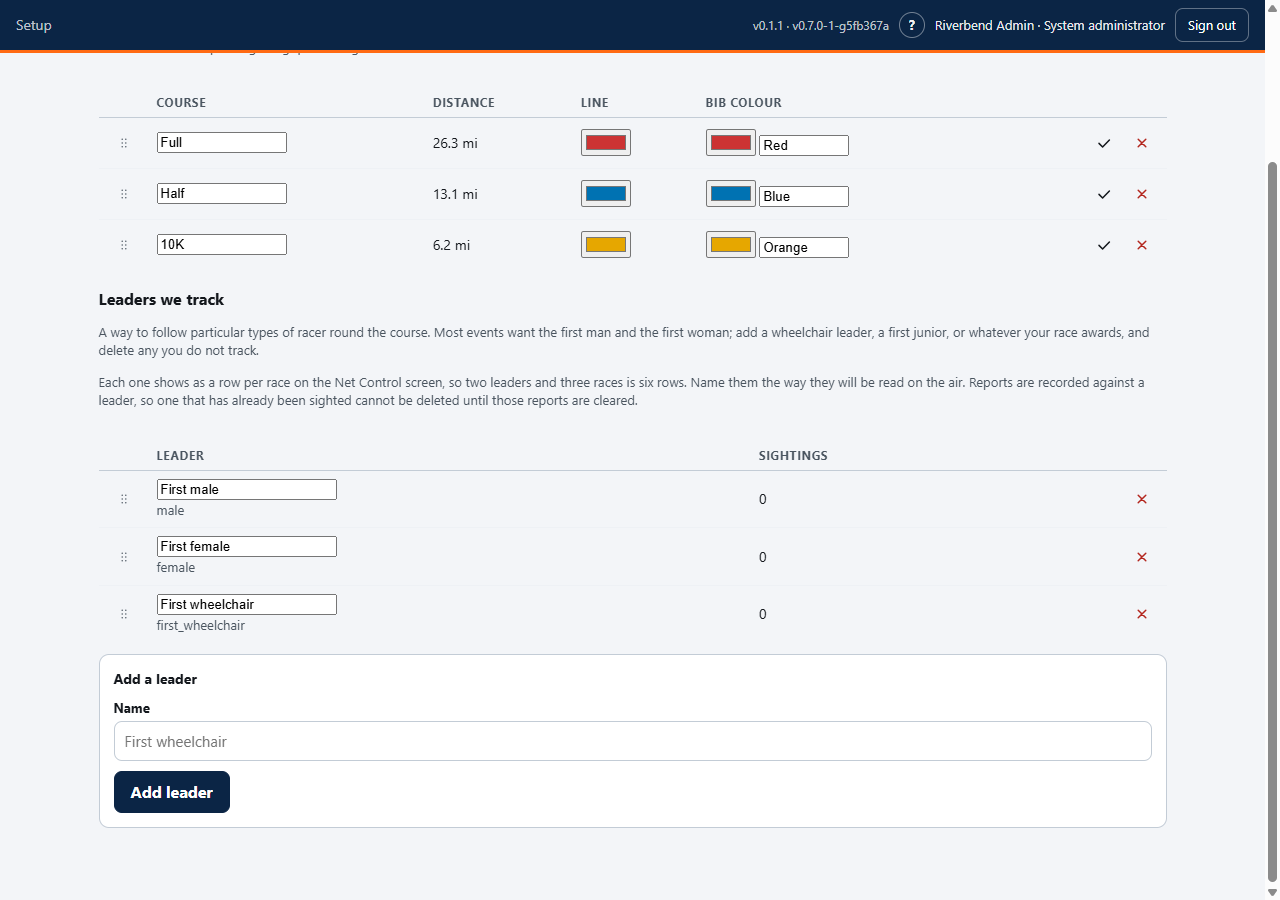
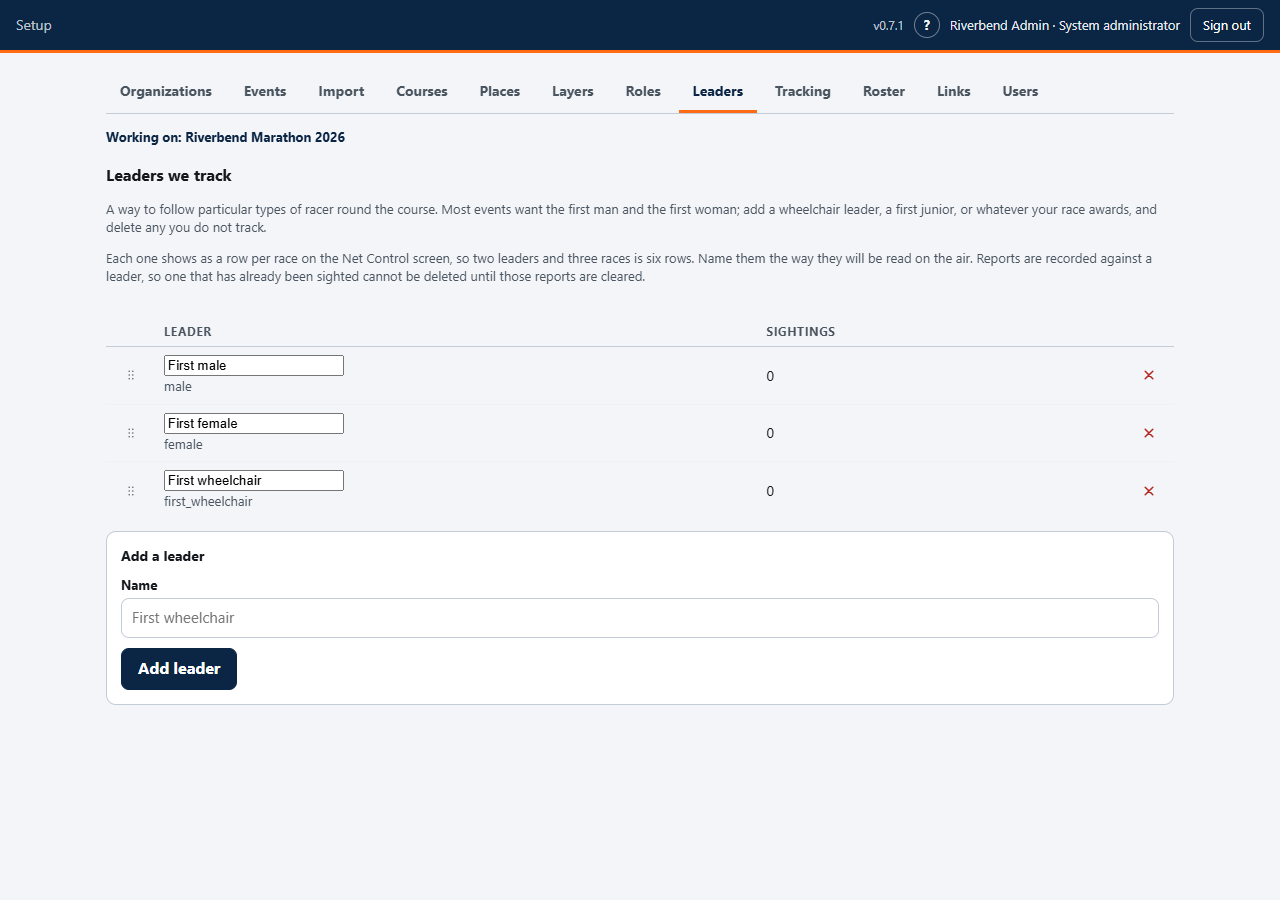
refactor: Leaders is its own setup tab (#106)
Layers and Roles are each a tab, and Leaders is a taxonomy of exactly the
same kind, so filing it as a second heading under Courses made it the odd
one out of three.

The reason given for putting it there does not survive checking: "a
leader is per race" is false. `lead_division` is event-scoped and every
leader is tracked in every race - what is per race is the row-per-race
grid on the NCS panel, and that is a consequence of the data rather than
a statement about where it belongs.

So: a tab between Roles and Tracking, its own panel with the same
data-needs-event gate as its siblings, and one line in refreshTab. The ?
maps to "Making it yours" alongside the other two taxonomies, and the
guide section moved out of setup.md into setup-ideas.md to sit beside
"Place layers: this list is yours" and "Station roles: also yours".

Screenshots: setup-courses.png back to the courses table alone,
setup-leaders.png re-shot as the tab. Two stale "Setup -> Courses ->
Leaders we track" references fixed, in the Net Control guide and the
runbook.

Clicked through: the tab loads standalone after a reload, the Courses
panel no longer owns the table, add and delete work from the new tab, and
the ? resolves to setup-ideas.

538 tests.

Claude-Session: https://claude.ai/code/session_01Rn3f7pn9v881Ek6nEawvSe

diff --git a/src/courseops/static/setup.html b/src/courseops/static/setup.html
@@ -71,6 +71,7 @@
     <button class="tab" data-tab="stations" type="button">Places</button>
     <button class="tab" data-tab="layers" type="button">Layers</button>
     <button class="tab" data-tab="roles" type="button">Roles</button>
+    <button class="tab" data-tab="leaders" type="button">Leaders</button>
     <button class="tab" data-tab="tracking" type="button">Tracking</button>
     <button class="tab" data-tab="roster" type="button">Roster</button>
     <button class="tab" data-tab="links" type="button">Links</button>
@@ -197,38 +198,6 @@
     </p>
     <p class="row"><span id="course-order-note" class="muted"></span></p>
     <div id="course-table"></div>
-
-    <!-- Leaders sit under Courses because a leader is per race: every leader
-         here is tracked in every race above, and the NCS panel shows one row
-         for each pairing. That is also the cost of adding one, which is why
-         the list has to be as easy to shorten as to lengthen. -->
-    <h2>Leaders we track</h2>
-    <p class="muted">
-      A way to follow particular types of racer round the course. Most events
-      want the first man and the first woman; add a wheelchair leader, a first
-      junior, or whatever your race awards, and delete any you do not track.
-    </p>
-    <p class="muted">
-      Each one shows as a row per race on the Net Control screen, so two
-      leaders and three races is six rows. Name them the way they will be read
-      on the air. Reports are recorded against a leader, so one that has
-      already been sighted cannot be deleted until those reports are cleared.
-    </p>
-    <p class="row"><span id="leader-order-note" class="muted"></span></p>
-    <div id="leader-table"></div>
-    <div class="row">
-      <button id="leader-save-all" class="primary" type="button" hidden></button>
-      <span id="leader-dirty" class="muted"></span>
-    </div>
-
-    <form id="leader-form" class="card">
-      <h3>Add a leader</h3>
-      <label class="field"><span>Name</span>
-        <input id="leader-name" type="text" placeholder="First wheelchair"
-          required></label>
-      <p id="leader-error" class="error" hidden></p>
-      <button class="primary" type="submit">Add leader</button>
-    </form>
   </section>
 
   <section class="panel" data-panel="stations" data-needs-event hidden>
@@ -334,6 +303,45 @@
         <input id="role-name" type="text" placeholder="Liaison" required></label>
       <p id="role-error" class="error" hidden></p>
       <button class="primary" type="submit">Add role</button>
+    </form>
+  </section>
+
+  <!-- Leaders is a taxonomy of the event, the same as the place layers and the
+       station roles, so it gets the same treatment: its own tab rather than a
+       second heading under Courses. Every leader here is tracked in every
+       race, which is what makes it event-scoped rather than a course setting -
+       the row-per-race grid on the NCS panel is a consequence of that, not a
+       reason to file it under the races. -->
+  <section class="panel" data-panel="leaders" data-needs-event hidden>
+    <p class="needs-event" hidden>Pick an event first — everything on this
+      tab belongs to one event.
+      <button data-goto="events" type="button">Go to Events</button></p>
+    <h2>Leaders we track</h2>
+    <p class="muted">
+      A way to follow particular types of racer round the course. Most events
+      want the first man and the first woman; add a wheelchair leader, a first
+      junior, or whatever your race awards, and delete any you do not track.
+    </p>
+    <p class="muted">
+      Each one shows as a row per race on the Net Control screen, so two
+      leaders and three races is six rows. Name them the way they will be read
+      on the air. Reports are recorded against a leader, so one that has
+      already been sighted cannot be deleted until those reports are cleared.
+    </p>
+    <p class="row"><span id="leader-order-note" class="muted"></span></p>
+    <div id="leader-table"></div>
+    <div class="row">
+      <button id="leader-save-all" class="primary" type="button" hidden></button>
+      <span id="leader-dirty" class="muted"></span>
+    </div>
+
+    <form id="leader-form" class="card">
+      <h3>Add a leader</h3>
+      <label class="field"><span>Name</span>
+        <input id="leader-name" type="text" placeholder="First wheelchair"
+          required></label>
+      <p id="leader-error" class="error" hidden></p>
+      <button class="primary" type="submit">Add leader</button>
     </form>
   </section>
 

diff --git a/src/courseops/static/setup.js b/src/courseops/static/setup.js
@@ -155,6 +155,7 @@ const HELP_FOR_TAB = {
   links: 'setup-people',
   layers: 'setup-ideas',
   roles: 'setup-ideas',
+  leaders: 'setup-ideas',
   tracking: 'setup-race-week',
 };
 
@@ -216,13 +217,12 @@ async function refreshTab(name) {
     // One loader for both: the places table needs the courses for its Races
     // column, and the courses table is small. Rendering into a panel that is
     // not showing costs nothing and keeps the two in step.
-    if (name === 'courses' || name === 'stations') {
-      // The leaders list lives on the Courses tab: it is per race, and the
-      // same endpoint already carries it.
-      if (name === 'courses') loadLayers('leaders');
-      return loadCourses();
-    }
+    if (name === 'courses' || name === 'stations') return loadCourses();
+    // Three taxonomies, one endpoint, one loader - each tab re-renders only
+    // its own table, because reloading a table someone has not touched
+    // discards the edits in progress in it.
     if (name === 'layers' || name === 'roles') return loadLayers();
+    if (name === 'leaders') return loadLayers('leaders');
     if (name === 'tracking') return loadTracking();
     if (name === 'roster') return loadRoster();
     if (name === 'links') return loadLinks();

diff --git a/docs/wiki/setup-ideas.md b/docs/wiki/setup-ideas.md
@@ -45,6 +45,35 @@ the list is missing - Liaison is the obvious example, and it is why the list
 stopped being fixed. Renaming is safe for the same reason: nothing keys off the
 displayed name.
 
+## Leaders: which racers you follow
+
+![The Leaders tab: rename, add, delete, drag to reorder](images/setup-leaders.png)
+
+A **leader** is a type of racer you want a position for as they come round the
+course. A new event starts with *First male* and *First female*. Rename them to
+your own wording, add a wheelchair leader or a first junior, and delete any your
+race does not award.
+
+The name is the whole label, exactly as it appears on the Net Control screen, so
+type *First wheelchair* rather than *Wheelchair* if that is what will be said on
+the net. Drag the grip to set the order they are listed in within each race.
+
+**Mind the arithmetic before adding a fourth.** Net Control sees one row per race
+per leader, so three races and two leaders is six rows; three races and four
+leaders is twelve. Track what will actually be called in.
+
+The same two rules as the layers and the roles, for the same reasons:
+
+- **Renaming is always safe.** Reports are recorded against the leader itself,
+  not against its wording, so changing *First female* to *First woman* mid-event
+  leaves every sighting where it is.
+- **A leader that has been sighted cannot be deleted** until its sightings are
+  cleared, and the app says how many are in the way. Otherwise those reports
+  would quietly vanish from the panel with nothing to say where they went.
+  Clearing is on the Net Control screen, per race and per leader.
+
+Set these before the event rather than during it.
+
 ---
 
 ## What else you can do with this
@@ -73,19 +102,9 @@ and you still have the course, the places, the roster with live status, the
 pickup queue, course notes and lead runners. Positions are one feature, not the
 foundation - a club with handhelds and no trackers still gets most of this.
 
-**Lead runners are per race, and which leaders you track is yours.** A new
-event comes with *First male* and *First female*; **Setup -> Courses ->
-Leaders we track** is where you rename them, add a wheelchair leader or a first
-junior, or delete one your race does not award. Each race gets its own
-progression and its own bib colour, so a three-race event is three
-progressions rather than one confused one.
-
-Bear the arithmetic in mind before adding a fourth: Net Control sees one row
-per race per leader, so three races and two leaders is six rows, and three
-races and four leaders is twelve. Track what will actually be called in on the
-net. Reports are recorded against a leader, so one that has already been
-sighted has to have its sightings cleared before it can be deleted - and
-renaming is always safe, because reports follow the leader, not the wording.
+**Lead runners are per race.** Each race gets its own progression and its own
+bib colour, so a three-race event is three progressions rather than one
+confused one. Which leaders you follow is the Leaders tab, above.
 
 **Give the organizer the Staff link early.** It is read-only, it is safe to
 forward to people the club has never met, and a race director watching the sweep

diff --git a/CLAUDE.md b/CLAUDE.md
@@ -204,6 +204,12 @@ usability, not style preferences.
   holding `CAP_SSID`, and written to the database only once NCS matches it
   to a roster entry. Not a position, not a raw packet, for anyone else. The
   roster is the allowlist: with nobody on it, nothing is stored at all.
+- **A taxonomy of the event gets its own setup tab.** Place layers, station
+  roles and leaders are the same kind of thing, so they are each a tab and the
+  `?` on each opens "Making it yours". Leaders shipped as a second heading
+  under Courses because the NCS panel shows a row per race per leader - but
+  that grid is a consequence of the data, not where it lives: `lead_division`
+  is event-scoped like the other two. A fourth taxonomy goes the same way.
 - **Which leaders an event tracks is the club's, not the code's.** Same rule
   as the place layers and the station roles, and it arrived late for the same
   reason: `leaders.DIVISIONS` was a two-item constant, copied into the state
@@ -844,6 +850,7 @@ Rules that keep this honest:
 
 Last 10 entries; full record in `CHANGELOG.md`.
 
+- **2026-09-10** Leaders moved to its own setup tab, beside Layers and Roles.
 - **2026-09-10** Clubs choose which leaders an event tracks - a wheelchair leader, a first junior - instead of a fixed male/female pair.
 - **2026-09-10** A `?` in the top bar of every screen opens that role's guide in a new tab.
 - **2026-09-09** Wiki gains a setup guide for club officers, including what a club can bend; README points at the wiki.
@@ -853,4 +860,3 @@ Last 10 entries; full record in `CHANGELOG.md`.
 - **2026-09-09** Fixed: a course note drew as a red pickup pin titled "Pickup (bib unknown)"; it is a round purple note pin now.
 - **2026-09-09** Volunteer guides per role in `docs/wiki/`, with screenshots from a demo event.
 - **2026-09-08** Fixed: the Course Ops lockup rides the LEFT column, so swapping SAG's columns no longer moves it.
-- **2026-09-08** NCS: pickups and course notes moved into the side panel above stations.

diff --git a/docs/wiki/setup.md b/docs/wiki/setup.md
@@ -76,35 +76,9 @@ viewer can re-stack their own screen without affecting anybody else.
 **Check the distance.** If a course reads 3 mi when it should read 13, segments
 are missing or one belongs to a different route.
 
-### Leaders we track
-
-![The Leaders we track list: rename, add, delete, drag to reorder](images/setup-leaders.png)
-
-Underneath the courses, on the same tab, is the list of **leaders** - the types
-of racer you want a position for as they come round. A new event starts with
-*First male* and *First female*. Rename them to your own wording, add a
-wheelchair leader or a first junior, delete any your race does not award, and
-drag them into the order they get read on the air.
-
-The name is the whole label, exactly as it appears on the Net Control screen,
-so type *First wheelchair* rather than *Wheelchair* if that is what will be
-said on the net.
-
-**Mind the arithmetic before adding a fourth.** Net Control sees one row per
-race per leader, so three races and two leaders is six rows; three races and
-four leaders is twelve. Track what will actually be called in.
-
-Two things behave the way the place layers and station roles do:
-
-- **Renaming is always safe.** Reports are recorded against the leader itself,
-  not against its wording, so changing *First female* to *First woman*
-  mid-event leaves every sighting where it is.
-- **A leader that has been sighted cannot be deleted** until its sightings are
-  cleared - the app will tell you how many are in the way. Otherwise the
-  reports would quietly vanish from the panel with nothing to say where they
-  went. Clearing is on the Net Control screen, per race and per leader.
-
-Do this before the event rather than during it.
+Which **leaders** you follow round each of these races - first male, first
+female, a wheelchair leader - is on its own tab, and is covered in
+[Making it yours](setup-ideas).
 
 ## 4. Places
 

diff --git a/CHANGELOG.md b/CHANGELOG.md
@@ -7,6 +7,18 @@ Format follows [Keep a Changelog](https://keepachangelog.com/en/1.1.0/).
 
 ## [Unreleased]
 
+### Changed
+- **Leaders is its own setup tab**, between Roles and Tracking, rather than a
+  second heading under Courses. Layers and Roles are each a tab and Leaders is
+  a taxonomy of exactly the same kind, so filing it under the races made it the
+  odd one out. The reason given for putting it there - "a leader is per race" -
+  was not true: `lead_division` is event-scoped and every leader is tracked in
+  every race. What is per race is the row-per-race grid on the NCS panel, and
+  that is a consequence of the data rather than where it lives. The `?` on the
+  tab now opens "Making it yours", where the other two taxonomies are already
+  documented, and the guide section moved there to match.
+
+
 ## [0.7.1] - 2026-09-10
 
 ### Fixed

diff --git a/docs/RUNBOOK.md b/docs/RUNBOOK.md
@@ -599,9 +599,9 @@ it has passed to *Torn down*.
 Track a leader for each race - first male and first female to start with. Aid
 stations call it in as the leaders pass; NCS records it.
 
-Which leaders this event tracks is set in `/setup` -> Courses -> **Leaders we
-track**: rename the two that come with a new event, add a wheelchair leader or
-a first junior, delete any the race does not award. Do this before the event,
+Which leaders this event tracks is set in `/setup` -> **Leaders**: rename the
+two that come with a new event, add a wheelchair leader or a first junior,
+delete any the race does not award. Do this before the event,
 not during it - every leader adds a row per race to the NCS panel, and a
 leader that has already been sighted cannot be deleted until its sightings are
 cleared.

diff --git a/docs/wiki/net-control.md b/docs/wiki/net-control.md
@@ -128,7 +128,7 @@ publishing "120 mph" and an aid station planning around it.
 You get one row per race per leader. Most events track a first male and a
 first female, but the list is the club's: if your race awards a wheelchair
 division or a first junior, whoever set the event up can add it under
-**Setup -> Courses -> Leaders we track**, and the new row appears on this
+**Setup -> Leaders**, and the new row appears on this
 panel without anyone reloading.
 
 There is no "finished" state. A later sighting is the correction.
